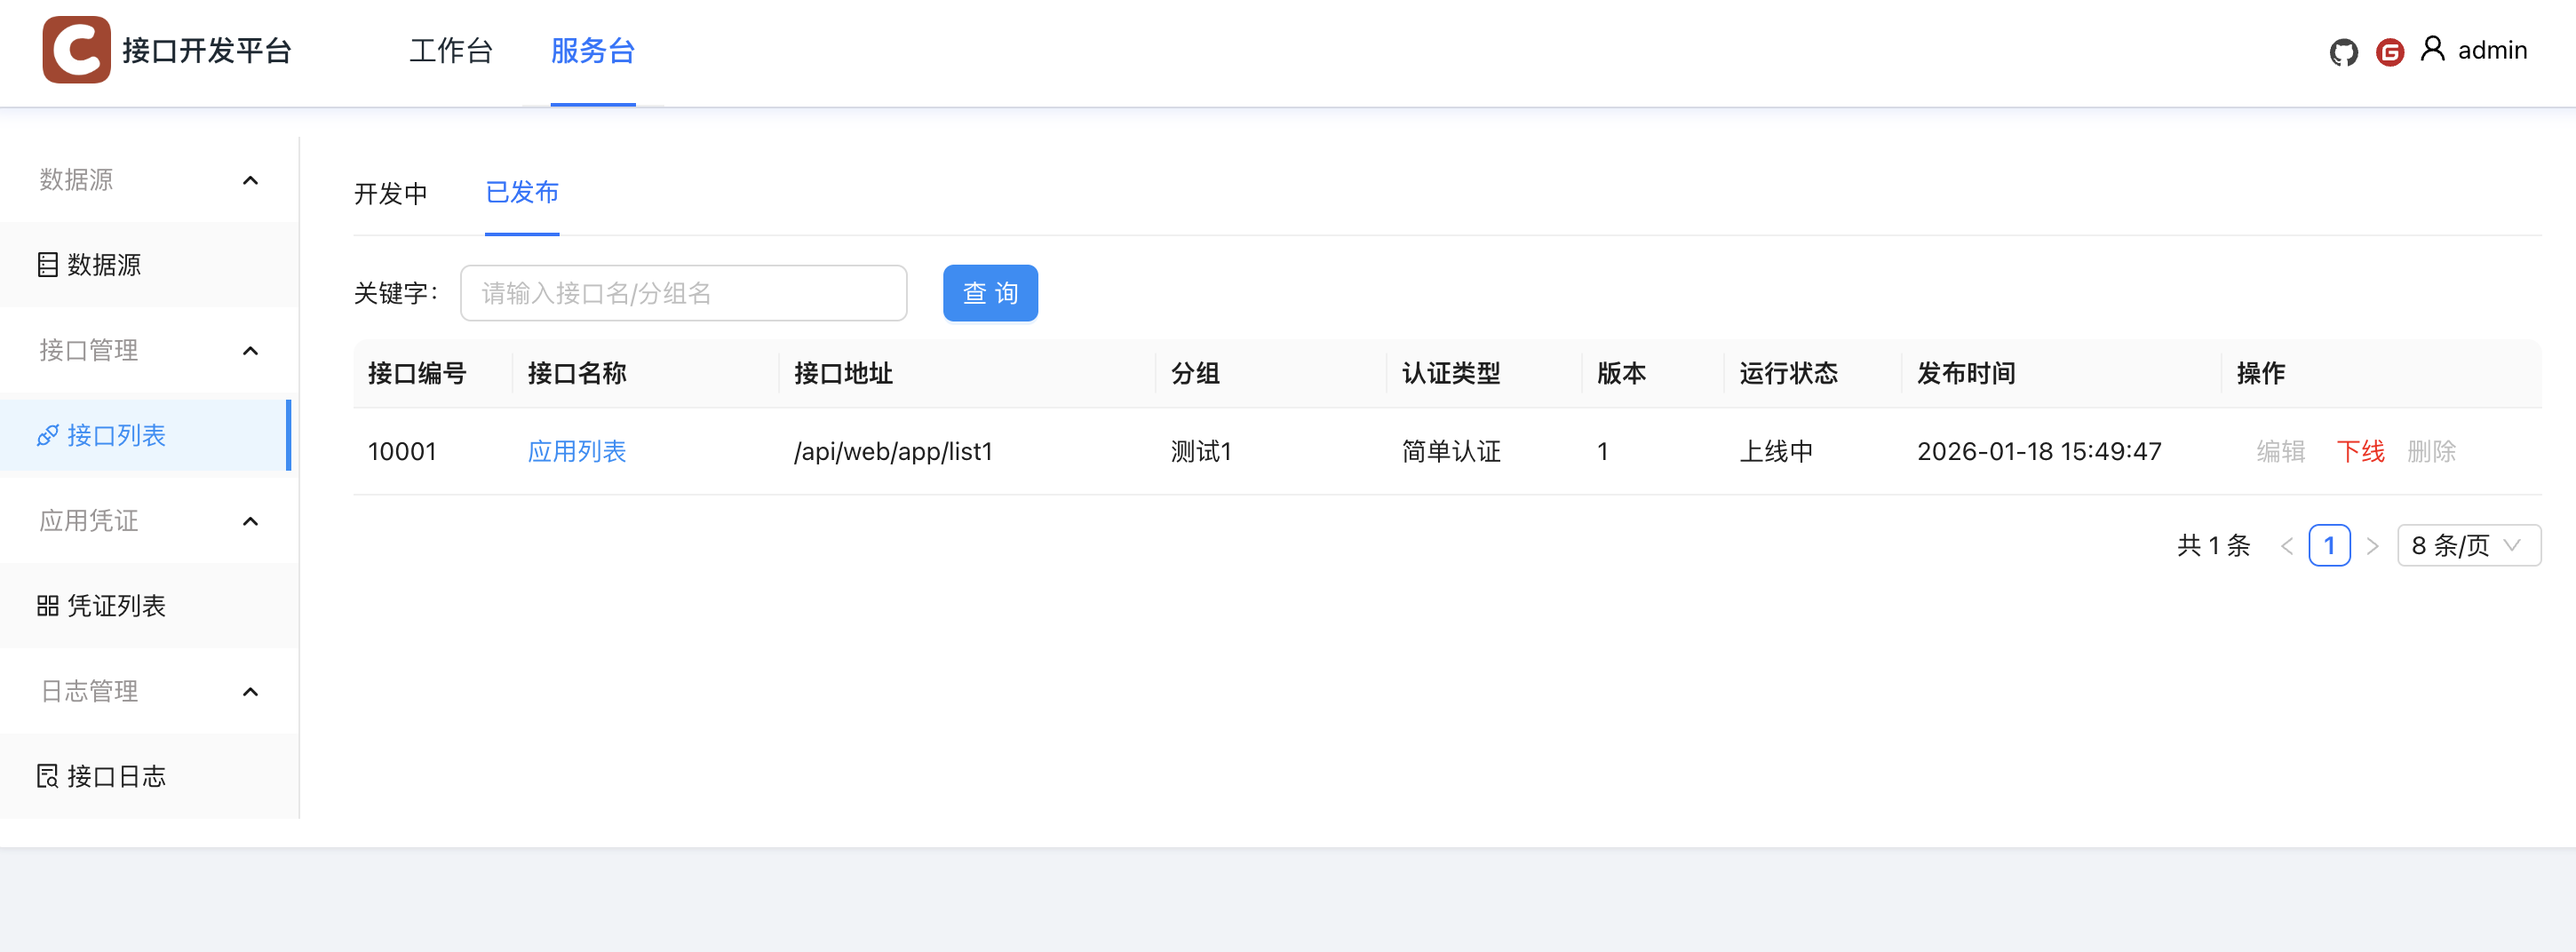
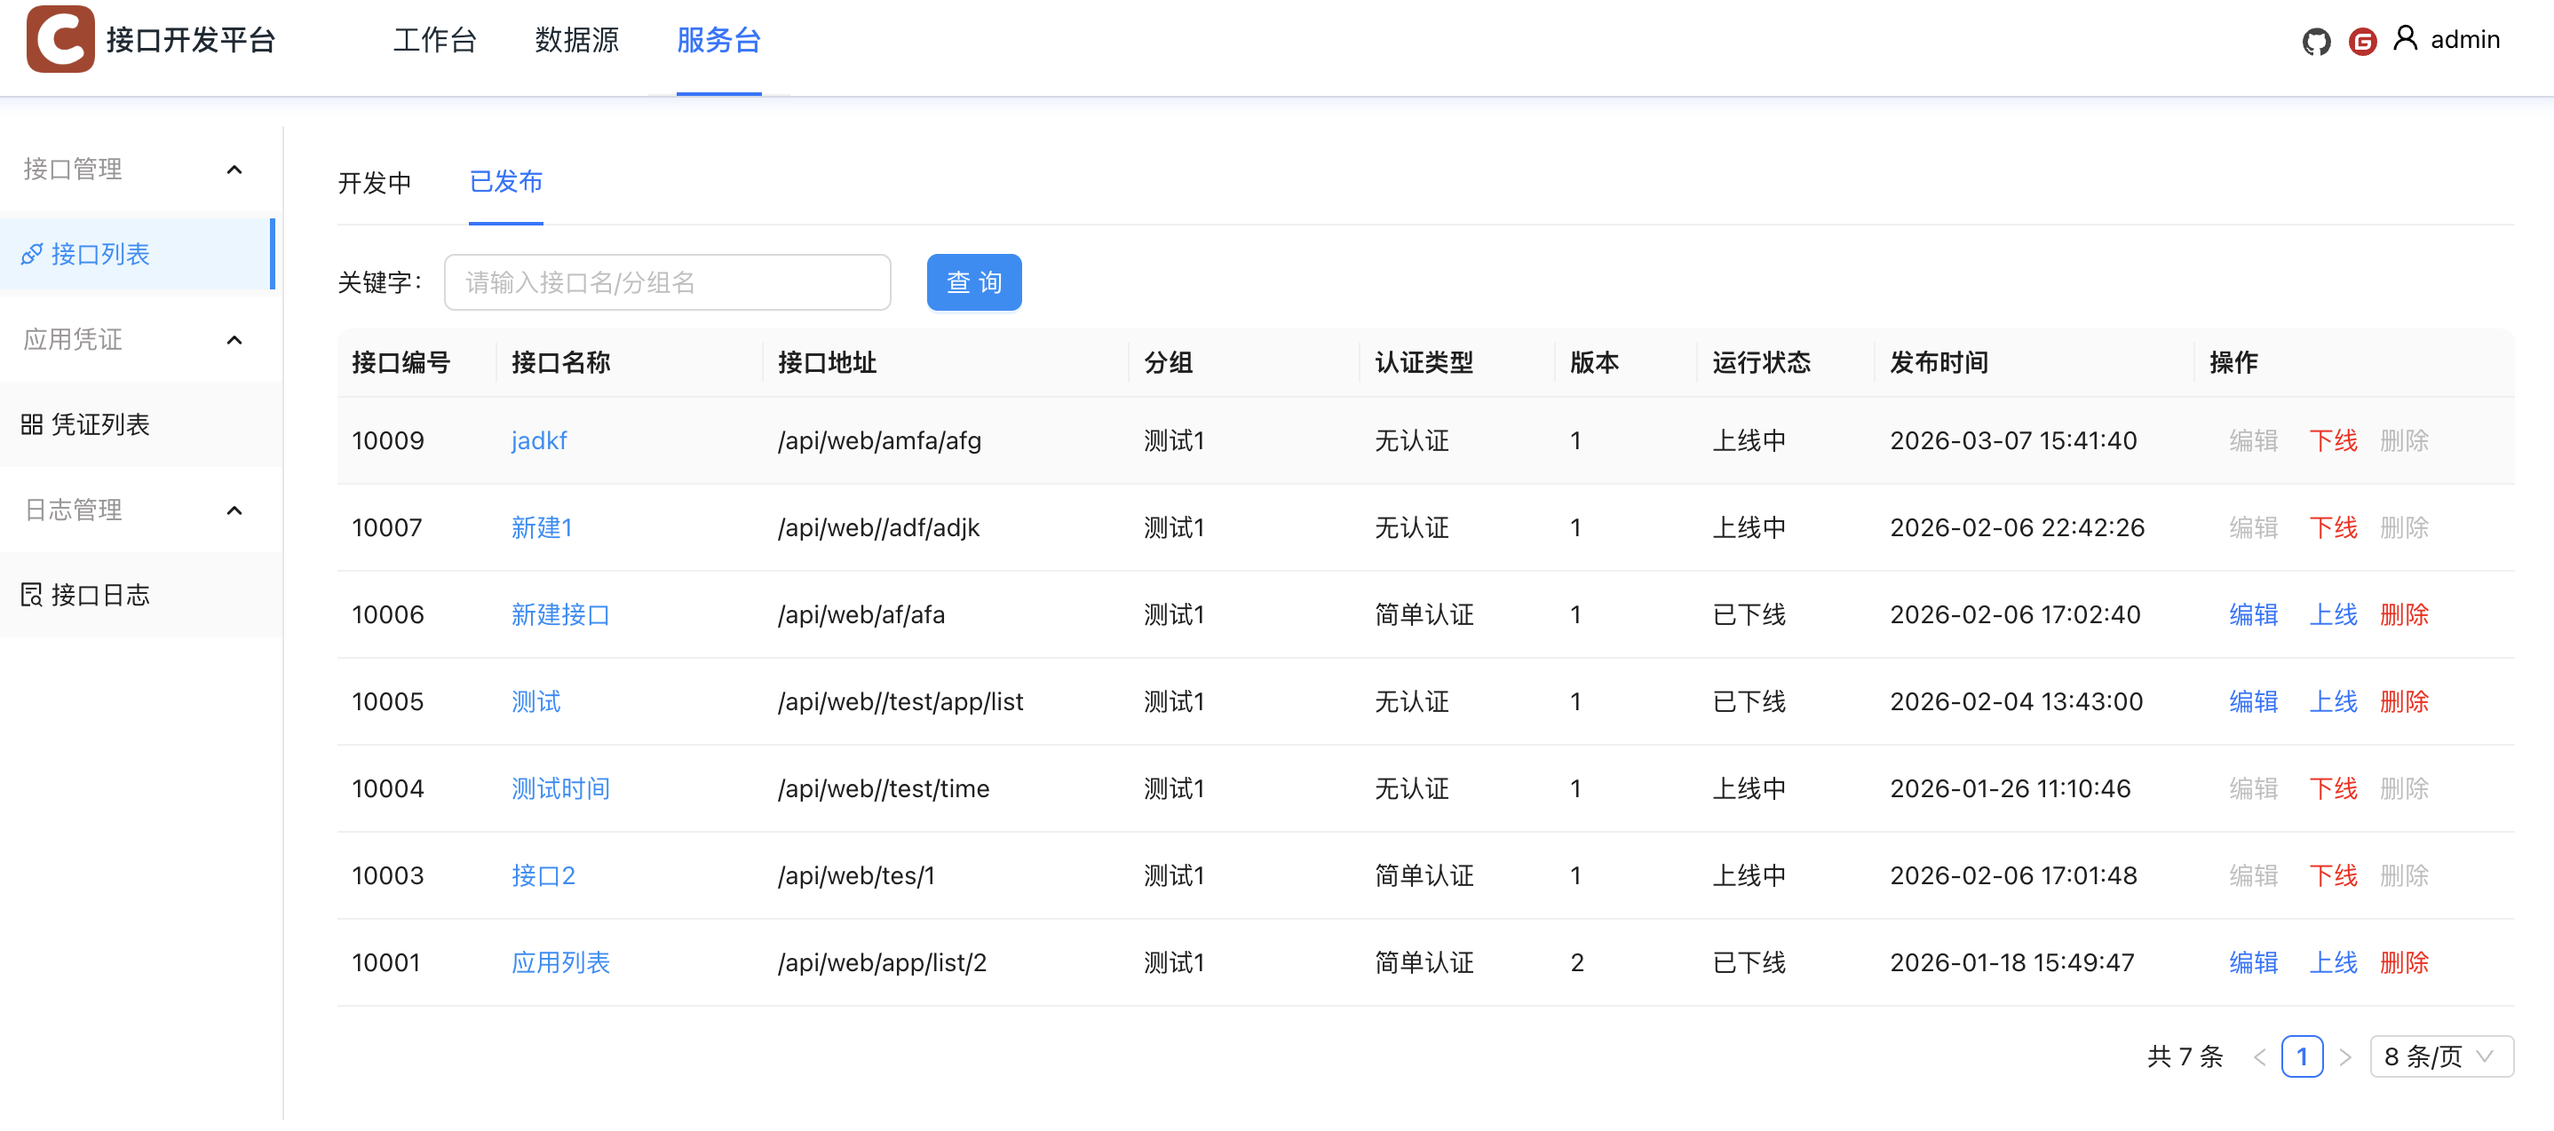
更新版本4.4.0

diff --git a/crabc-api/crabc-core/src/main/java/cn/crabc/core/app/config/InterceptorConfig.java b/crabc-api/crabc-core/src/main/java/cn/crabc/core/app/config/InterceptorConfig.java
@@ -33,8 +33,8 @@ public class InterceptorConfig implements WebMvcConfigurer {
     public void addInterceptors(InterceptorRegistry registry) {
         // 登录拦截器
         registry.addInterceptor(jwtInterceptor())
-                .excludePathPatterns("/api/box/**"); // 需要拦截的请求
-                //.excludePathPatterns("/api/box/sys/user/login", "/api/box/sys/user/loginout", "/api/box/sys/user/register"); // 不拦截的请求
+                .addPathPatterns("/api/box/**") // 需要拦截的请求
+                .excludePathPatterns("/api/box/sys/user/login", "/api/box/sys/user/loginout", "/api/box/sys/user/register"); // 不拦截的请求
 
         // API开放接口拦截器
         registry.addInterceptor(apiInterceptor())
